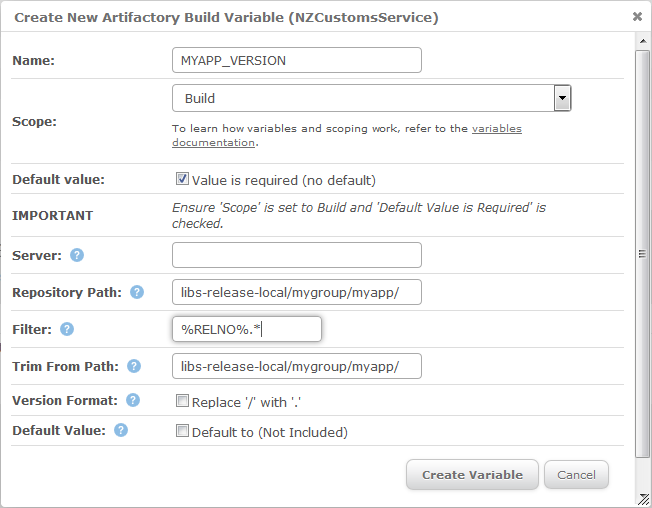
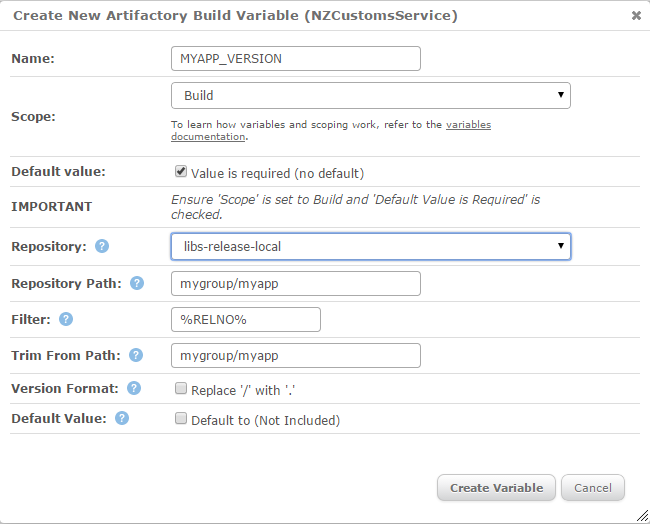
Tidy

Changed region(s): [[0.0, 0.0, 1.0, 0.9154], [0.6135, 0.8858, 1.0, 1.0], [0.0, 0.2067, 0.092, 0.2657]]

diff --git a/NZCustomsServiceExtension/Variables/ArtifactoryVersionVariableEditor.cs b/NZCustomsServiceExtension/Variables/ArtifactoryVersionVariableEditor.cs
@@ -114,17 +114,17 @@ namespace NZCustomsServiceExtension.Variables
             this.filter = new ValidatingTextBox { Width = 150 };
             this.trimFromPath = new ValidatingTextBox { Width = 250 };
             this.replaceSlashWithDot = new CheckBox { Width = 250, Text = "Replace '/' with '.'" };
-            this.defaultToNotIncluded = new CheckBox { Width = 250, Text = "Default to (Not Included)" };
+            this.defaultToNotIncluded = new CheckBox { Width = 250, Text = "Default to '" + ArtifactoryVersionVariableSetter.NotIncluded + "'" };
 
             //new SlimFormField("Help", server) { "Ensure 'Scope' is set to Build and 'Default Value is Required' is checked." },
             this.Controls.Add(
                 new SlimFormField("IMPORTANT") { InnerHtml = "<i>Ensure 'Scope' is set to Build and 'Default Value is Required' is checked.</i>" },
                 new SlimFormField("Repository:", this.repositoryKey) { HelpText = "The name of the repository the artifact is stored in." },
-                new SlimFormField("Repository Path:", this.repositoryPath) { HelpText = "The path to the folder that contains the list of builds.<br>Supports use of the %RELNO% and %RELNAME% variables <i>(token for active release(s) rather than current release)</i>." },
-                new SlimFormField("Filter:", this.filter) { HelpText = "If builds for all releases placed in one folder, use this filter to only include active release related items (eg %RELNO%..*).<br><br><i>Note: This is a regular expression.</i>" },
+                new SlimFormField("Repository Path:", this.repositoryPath) { HelpText = "The path to the folder that contains the list of builds.  Supports use of the %RELNO% and %RELNAME% variables (token for active release(s) rather than current release) eg if builds are in a seperate folder per release then you might use: group/name/%RELNO%" },
+                new SlimFormField("Filter:", this.filter) { HelpText = "If builds for all releases placed in one folder, use this filter to only include active release related items (eg %RELNO%..*).  Note: This is a regular expression" },
                 new SlimFormField("Trim From Path:", this.trimFromPath) { HelpText = "To strip the artifactory path details from the list items that this control displays, enter the text that you wish removed from the start of the item.  Often this will be identical to the Repository Path setting." },
-                new SlimFormField("Version Format:", this.replaceSlashWithDot) { HelpText = "When checked will replace / with . in list item, eg 1.0/22 will become to 1.0.22 - only useful when builds are kept in seperate release folders rather than all in one folder" },
-                new SlimFormField("Default Value: ", this.defaultToNotIncluded) { HelpText = "When unchceck will default to the latest build (last item in list), when checked not select a build." }
+                new SlimFormField("Version Format:", this.replaceSlashWithDot) { HelpText = "When checked will replace / with . in list item, eg 1.0/22 will become to 1.0.22.  Should only be set when there is a / in the list being displayed to the user otherwise there could be problems decoding the version number later." },
+                new SlimFormField("Default Value: ", this.defaultToNotIncluded) { HelpText = "When unchceck will default to the latest build (last item in list), when checked will default to (Not included)." }
             );
 
             ArtifactoryApi artifactory = new ArtifactoryApi(this.GlobalConfig);

diff --git a/NZCustomsServiceExtension/Actions/RetrieveArtifactActionEditor.cs b/NZCustomsServiceExtension/Actions/RetrieveArtifactActionEditor.cs
@@ -18,8 +18,6 @@ namespace NZCustomsServiceExtension.Actions
         private SourceControlFileFolderPicker destinationFileName;
         private CheckBox markAsExecutable;
 
-        //private ValidatingTextBox ffpFileName;
-
         public RetrieveArtifactActionEditor()
         {
         }
@@ -58,13 +56,12 @@ namespace NZCustomsServiceExtension.Actions
             this.markAsExecutable = new CheckBox() { Text = "Mark As Executable" };
 
             this.Controls.Add(
-                new SlimFormField("Artifactory Variable:", this.artifactoryVariable) { HelpText = "Choose a specific artifactory variable, or all artifactory variables in build scope." },
-                new SlimFormField("Item Name:", this.artifactName) { HelpText = "Checking this option means that this action will only log what it would delete, unchecking it will cause the action to actually delete artifacts from Artifactory." },
-                new SlimFormField("Output File:", this.destinationFileName),
-                new SlimFormField("Make Executable:", this.markAsExecutable) { HelpText = "chmod 0755" }
+                new SlimFormField("Artifactory Variable:", this.artifactoryVariable) { HelpText = "Select the previously declared Artifactory Variable that specifies the location of the file you wish to download." },
+                new SlimFormField("Artifact Name:", this.artifactName) { HelpText = "The name of the file you wish to download." },
+                new SlimFormField("Output File:", this.destinationFileName) { HelpText = "The destination, defaults to the working directory plus artifact name." },
+                new SlimFormField("Make Executable:", this.markAsExecutable) { HelpText = "Give the file executable permission (run chmod 0755). Unfortunately permissions are not kept with this method of copy files." }
             );
          
-            //this.artifactoryVariable.Items.Add(new ListItem("(All Artifactory Variables in Build Scope)", ALL_ARTIFACTORY_VARIABLES));
             this.artifactoryVariable.Items.AddRange(ArtifactoryVersionVariable.GetArtifactoryVariablesInBuildScope(this.ApplicationId));
         }
     }

diff --git a/NZCustomsServiceExtension/Actions/SetVariableToArtifactoryPathAction.cs b/NZCustomsServiceExtension/Actions/SetVariableToArtifactoryPathAction.cs
@@ -13,6 +13,7 @@ namespace NZCustomsServiceExtension.Actions
     using Inedo.BuildMaster.Data;
     using Inedo.BuildMaster.Extensibility.Actions;
     using Inedo.BuildMaster.Web;
+    using NZCustomsServiceExtension.Variables;
 
     /// <summary>
     /// Populates a variable with the value path to a build in artifactory chosen in selected artifactory variable
@@ -60,7 +61,7 @@ namespace NZCustomsServiceExtension.Actions
         {
             try
             {
-                string version = this.GetVariableValue();
+                string version = ArtifactoryVersionVariable.GetVariableValue(this.Context, this.VariableName).Value_Text;
 
                 var exec = StoredProcs
                         .Builds_GetExecution(this.Context.ExecutionId)
@@ -97,25 +98,7 @@ namespace NZCustomsServiceExtension.Actions
                 this.LogError(ex.Message);
             }
         }
-
-        /// <summary>
-        /// Get the current value of artifactory variable
-        /// </summary>
-        /// <returns>Variable value as string</returns>
-        private string GetVariableValue()
-        {
-            // Check that the version selected is actually valid for the current release
-            var version = StoredProcs.Variables_GetVariableValues(this.Context.EnvironmentId, null, this.Context.ApplicationGroupId, this.Context.ApplicationId,
-                            this.Context.DeployableId, this.Context.ReleaseNumber, this.Context.BuildNumber, this.Context.ExecutionId )
-                    //.BuildExecutionPlanAction_GetVariableValues(this.Context.ExecutionPlanActionId)
-                    .Execute()
-                    .Where(s => s.Variable_Name == this.ArtifactoryVariable)
-                    .FirstOrDefault()
-                    .Value_Text;
-
-            return version;
-        }
-        
+                
         /// <summary>
         /// Gets the artifactory path from the properties and value of the selected artifactory variable
         /// </summary>

diff --git a/NZCustomsServiceExtension/Actions/CleanupArtifactoryActionEditor.cs b/NZCustomsServiceExtension/Actions/CleanupArtifactoryActionEditor.cs
@@ -68,7 +68,7 @@ namespace NZCustomsServiceExtension.Actions
         /// <summary>
         /// Create action from form
         /// </summary>
-        /// <returns>new WGetFromArtifactoryAction</returns>
+        /// <returns>new ActionBase</returns>
         public override ActionBase CreateFromForm()
         {
             this.EnsureChildControls();
@@ -109,7 +109,7 @@ namespace NZCustomsServiceExtension.Actions
                 new SlimFormField("Artifactory Variable:", this.artifactoryVariable) { HelpText = "Choose a specific artifactory variable, or all artifactory variables in build scope." },
                 new SlimFormField("Dry Run:", this.dryRun) { HelpText = "Checking this option means that this action will only log what it would delete, unchecking it will cause the action to actually delete artifacts from Artifactory." },
                 new SlimFormField("Builds To Keep"),
-                new SlimFormField("Per Envrionment:", this.buildsToKeep) { HelpText = "Number of rejected builds to keep per envrionment, this allows reverting to a previous build." },
+                new SlimFormField("Per Envrionment:", this.buildsToKeep) { HelpText = "Number of builds to keep per envrionment.  Keep this at a level that will allow reverting to a previous builds if required, even if that build is no longer active." },
                 new SlimFormField("Final Envrionment:", this.buildsToKeepFinal) { HelpText = "Could be read as how many production releases should we keep in the archive." }
             );
 

diff --git a/NZCustomsServiceExtension/Variables/ArtifactoryVersionVariable.cs b/NZCustomsServiceExtension/Variables/ArtifactoryVersionVariable.cs
@@ -18,6 +18,8 @@ namespace NZCustomsServiceExtension.Variables
     using System.Collections.Generic;
     using System.Web.UI.WebControls;
     using System.Text;
+    using Inedo.BuildMaster.Data.StoredProcedures;
+    using Inedo.BuildMaster.Extensibility.Actions;
 
     /// <summary>
     /// Artifactory build variable.  Allows selection of a specific build in Artifactory.
@@ -293,6 +295,16 @@ namespace NZCustomsServiceExtension.Variables
                     .Where(s => s.Variable_Configuration.Contains("NZCustomsServiceExtension.Variables.ArtifactoryVersionVariable"))
                     .Select(s => new ListItem(s.Variable_Name))
                     .ToArray();
+        }
+
+        public static Tables.Variable_Values GetVariableValue(IActionExecutionContext context, string variableName)
+        {
+            return StoredProcs.Variables_GetVariableValues(
+                Environment_Id: context.EnvironmentId, Server_Id: null,
+                ApplicationGroup_Id: context.ApplicationGroupId, Application_Id: context.ApplicationId,
+                Deployable_Id: context.DeployableId,
+                Release_Number: context.ReleaseNumber, Build_Number: context.BuildNumber,
+                Execution_Id: context.ExecutionId).Execute().FirstOrDefault(v => v.Variable_Name == variableName);
         }
     }
 

diff --git a/NZCustomsServiceExtension/Predicates/VariableHasValuePredicate.cs b/NZCustomsServiceExtension/Predicates/VariableHasValuePredicate.cs
@@ -36,13 +36,8 @@ namespace NZCustomsServiceExtension.Predicates
         /// <returns>True if variable contains a value</returns>
         public override bool Evaluate(IActionExecutionContext context)
         {
-            var variable = StoredProcs.Variables_GetVariableValues(
-                Environment_Id: context.EnvironmentId, Server_Id: null, 
-                ApplicationGroup_Id: context.ApplicationGroupId, Application_Id: context.ApplicationId, 
-                Deployable_Id: context.DeployableId,
-                Release_Number: context.ReleaseNumber, Build_Number: context.BuildNumber,
-                Execution_Id: context.ExecutionId).Execute().FirstOrDefault(v => v.Variable_Name == this.VariableName);
-
+            var variable = ArtifactoryVersionVariable.GetVariableValue(context, this.VariableName);
+            
             if (variable == null) return false;
             if (string.IsNullOrEmpty(variable.Value_Text)) return false;
             if (variable.Value_Text == ArtifactoryVersionVariableSetter.NotIncluded) return false;

diff --git a/NZCustomsServiceExtension/Actions/CleanupArtifactoryAction.cs b/NZCustomsServiceExtension/Actions/CleanupArtifactoryAction.cs
@@ -169,6 +169,7 @@ namespace NZCustomsServiceExtension.Actions
 
                     foreach (var execution in executions)
                     {
+                        //TODO: Call ArtifactoryAction.GetVaribleValue
                         var variableValue = StoredProcs.Variables_GetVariableValues(
                                                 Environment_Id: execution.Environment_Id,
                                                 Server_Id: null,
